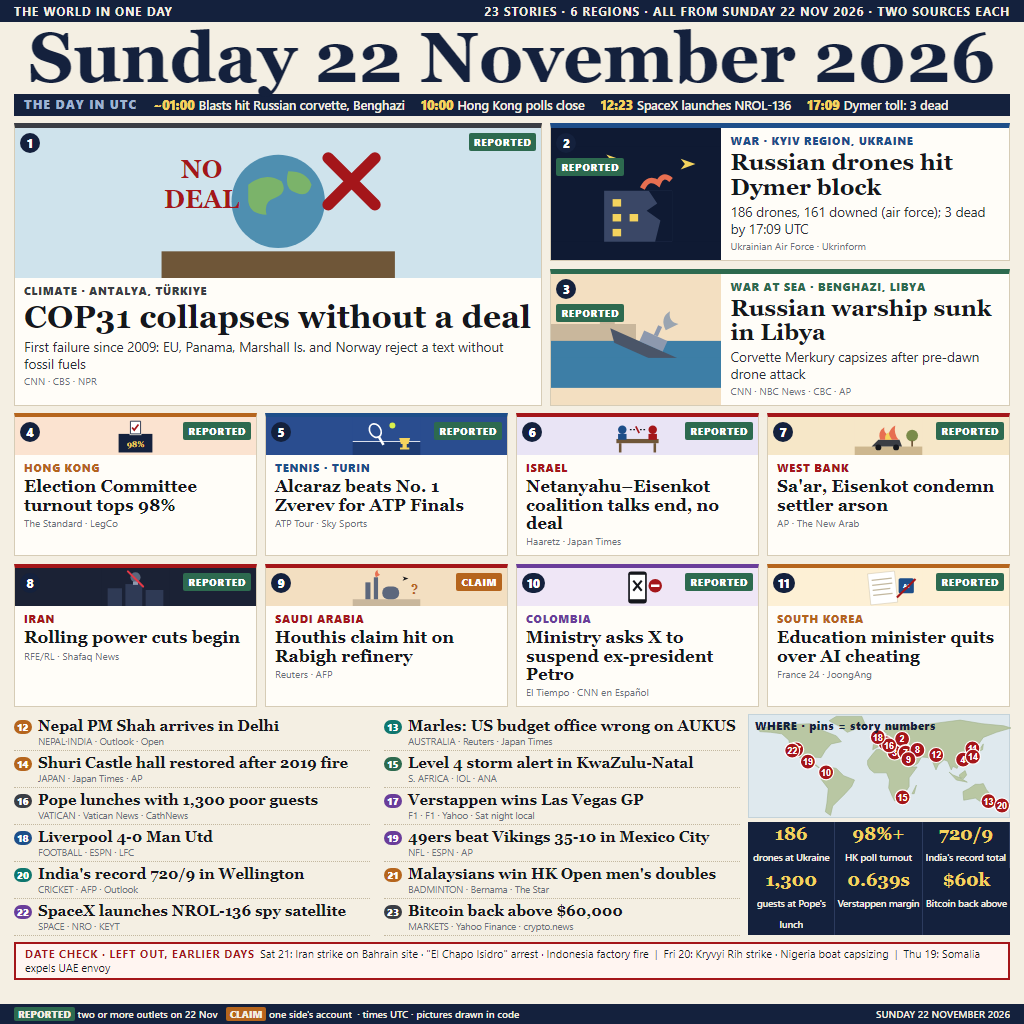
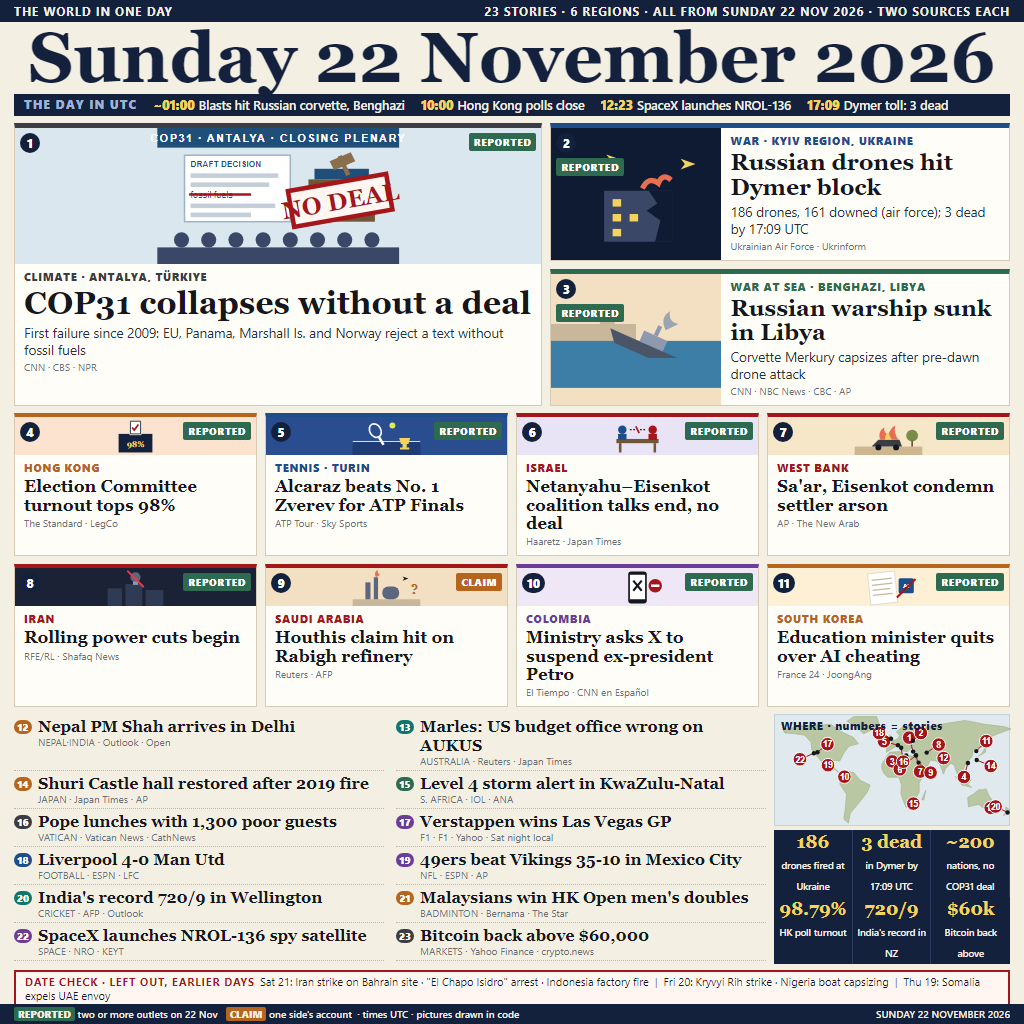
V6.1: plenary scene for COP31, larger briefs, map callouts, sourced indicators

Changed region(s): [[0.0, 0.6875, 1.0, 1.0], [0.0, 0.125, 0.5312, 0.375]]

diff --git a/design/page.html b/design/page.html
@@ -45,12 +45,12 @@
   .ind b { display: block; font-family: Georgia, serif; font-size: 22px; line-height: 24px; color: #f4d35e; }
   .ind span { font-size: 10.5px; font-weight: 600; }
 
-  .notes { display: grid; gap: 0 14px; }
+  .notes { display: grid; gap: 0 12px; }
   .nt { display: flex; gap: 6px; align-items: flex-start; border-bottom: 1px dotted #c3b89f; padding: 3px 0 3px; }
   .nt i { flex: none; font-style: normal; font-size: 10px; font-weight: 800; color: #fff; background: var(--c);
     border-radius: 8px; min-width: 18px; text-align: center; padding: 0 3px; margin-top: 3px; }
-  .nt b { display: block; font-family: Georgia, serif; font-size: 15px; line-height: 18px; }
-  .nt em { display: block; font-style: normal; font-size: 9.5px; line-height: 12px; color: #6b6f78; white-space: nowrap; }
+  .nt b { display: block; font-family: Georgia, serif; font-size: 16px; line-height: 19px; }
+  .nt em { display: block; font-style: normal; font-size: 10px; line-height: 12px; color: #6b6f78; white-space: nowrap; }
   .map { background: #dfe9ee; border: 1px solid #c4d3da; position: relative; }
   .map .cap { position: absolute; left: 6px; top: 4px; font-size: 10.5px; font-weight: 800; letter-spacing: .08em; color: #14213d; }
   .check { margin: 6px 14px 0; border: 2px solid #a4161a; background: #fff5f1; padding: 3px 9px; font-size: 11px; line-height: 14px; }
@@ -93,13 +93,15 @@ const NOTES = [
   { r: 'am', k: 'SPACE', h: 'SpaceX launches NROL-136 spy satellite', s: 'NRO · KEYT', at: [-120.6, 34.7] },
   { r: 'wd', k: 'MARKETS', h: 'Bitcoin back above $60,000', s: 'Yahoo Finance · crypto.news', at: null },
 ];
-const IND = [['186', 'drones at Ukraine'], ['98%+', 'HK poll turnout'], ['720/9', "India's record total"], ['1,300', "guests at Pope's lunch"], ['0.639s', 'Verstappen margin'], ['$60k', 'Bitcoin back above']];
+// Each figure is one already in the stories below, from the same two sources.
+const IND = [['186', 'drones fired at Ukraine'], ['3 dead', 'in Dymer by 17:09 UTC'], ['~200', 'nations, no COP31 deal'], ['98.79%', 'HK poll turnout'], ['720/9', "India's record in NZ"], ['$60k', 'Bitcoin back above']];
 const UTC = [['~01:00', 'Blasts hit Russian corvette, Benghazi'], ['10:00', 'Hong Kong polls close'], ['12:23', 'SpaceX launches NROL-136'], ['17:09', 'Dymer toll: 3 dead']];
 const CHECK = 'Sat 21: Iran strike on Bahrain site · "El Chapo Isidro" arrest · Indonesia factory fire &nbsp;|&nbsp; Fri 20: Kryvyi Rih strike · Nigeria boat capsizing &nbsp;|&nbsp; Thu 19: Somalia expels UAE envoy';
 
 // Small scenes, drawn on a 160x90 canvas.
 const ART = {
-  cop: `<rect width="160" height="90" fill="#cfe3ec"/><circle cx="80" cy="44" r="28" fill="#4f8fb0"/><path d="M62 34q10-8 20-2q4 7-4 10q-7 2-5 10q-10 0-11-8z M86 26q11 0 14 8q-2 8-9 5q-8-2-5-13z" fill="#7bb36a"/><rect x="10" y="74" width="140" height="16" fill="#6f5638"/><path d="M110 18 l28 28 M138 18 l-28 28" stroke="#a4161a" stroke-width="7" stroke-linecap="round"/><text x="34" y="30" font-family="Georgia" font-weight="700" font-size="15" fill="#a4161a" text-anchor="middle">NO</text><text x="34" y="48" font-family="Georgia" font-weight="700" font-size="15" fill="#a4161a" text-anchor="middle">DEAL</text>`,
+  // The closing plenary: the draft on the screen has its fossil-fuel line struck out, and the gavel is stamped NO DEAL.
+  cop: `<rect width="160" height="90" fill="#dbe7ee"/><rect x="0" y="0" width="160" height="13" fill="#1f4e79"/><text x="80" y="9.5" text-anchor="middle" font-family="Arial" font-weight="700" font-size="7.5" fill="#fff" letter-spacing=".8">COP31 · ANTALYA · CLOSING PLENARY</text><rect x="18" y="18" width="70" height="44" fill="#fff" stroke="#9fb3c8"/><text x="22" y="26" font-family="Arial" font-weight="700" font-size="5.5" fill="#1f4e79">DRAFT DECISION</text><g fill="#c3ced8"><rect x="22" y="30" width="58" height="3"/><rect x="22" y="36" width="52" height="3"/><rect x="22" y="50" width="56" height="3"/><rect x="22" y="56" width="40" height="3"/></g><text x="22" y="46" font-family="Arial" font-size="6" fill="#a4161a">fossil fuels</text><line x1="21" y1="44" x2="62" y2="44" stroke="#a4161a" stroke-width="1.6"/><rect x="100" y="34" width="44" height="28" fill="#6f5638"/><rect x="104" y="27" width="36" height="7" fill="#1f4e79"/><path d="M114 22l14-6 3 6-14 6z" fill="#8a6f4e"/><rect x="122" y="18" width="3" height="14" fill="#8a6f4e" transform="rotate(-24 123 25)"/><g fill="#3a4766"><circle cx="16" cy="74" r="5"/><circle cx="34" cy="74" r="5"/><circle cx="52" cy="74" r="5"/><circle cx="70" cy="74" r="5"/><circle cx="88" cy="74" r="5"/><circle cx="106" cy="74" r="5"/><circle cx="124" cy="74" r="5"/><circle cx="142" cy="74" r="5"/></g><rect x="0" y="79" width="160" height="11" fill="#3a4766"/><g transform="rotate(-10 120 48)"><rect x="88" y="36" width="66" height="24" fill="#fff5f1" stroke="#a4161a" stroke-width="3"/><text x="121" y="54" text-anchor="middle" font-family="Georgia" font-weight="700" font-size="16" fill="#a4161a">NO DEAL</text></g>`,
   drones: `<rect width="160" height="90" fill="#0f1a33"/><g fill="#f4d35e"><path d="M18 14l14 5-14 5 4-5z"/><path d="M52 8l14 5-14 5 4-5z"/><path d="M122 12l14 5-14 5 4-5z"/></g><path d="M50 90v-48h64v48z" fill="#3a4766"/><g fill="#f4d35e"><rect x="58" y="50" width="8" height="7"/><rect x="58" y="64" width="8" height="7"/><rect x="58" y="78" width="8" height="7"/><rect x="74" y="64" width="8" height="7"/></g><path d="M114 42l-22 0 8 12-10 7 13 9-5 20h16z" fill="#0f1a33"/><path d="M86 40q6-12 15-5q4-10 12-3" stroke="#e76f51" stroke-width="5" fill="none"/>`,
   ship: `<rect width="160" height="90" fill="#f3dfc1"/><rect y="0" width="160" height="30" fill="#f3dfc1"/><path d="M0 30h46v-8h14v8h20v16H0z" fill="#c9b79c"/><rect y="46" width="160" height="44" fill="#3d7ea6"/><g transform="translate(96 52) rotate(24)"><path d="M-44 0h88l-9 11h-70z" fill="#4a5568"/><rect x="-14" y="-11" width="24" height="11" fill="#8d99ae"/><rect x="-4" y="-21" width="4" height="10" fill="#8d99ae"/></g><rect y="62" width="160" height="28" fill="#3d7ea6"/><path d="M108 36q-6-12 4-18q-2 10 8 12" fill="#9aa5b1"/>`,
   ballot: `<rect width="160" height="90" fill="#fbe3d0"/><rect x="40" y="40" width="80" height="44" fill="#14213d"/><rect x="66" y="38" width="28" height="5" fill="#f4efe3"/><path d="M68 10h24v30h-24z" fill="#fff" stroke="#14213d" stroke-width="2"/><path d="M72 25l5 6 10-13" stroke="#a4161a" stroke-width="4" fill="none"/><text x="80" y="70" text-anchor="middle" font-family="Georgia" font-weight="700" font-size="19" fill="#f4d35e">98%</text>`,
@@ -151,9 +153,15 @@ function notes(cols) {
 function map(w, h, title) {
   const px = (lon) => ((lon + 180) / 360) * w, py = (lat) => ((84 - lat) / 144) * h;
   const land = LAND.map((p) => `<path d="M${p.map(([a, b]) => `${px(a).toFixed(1)} ${py(b).toFixed(1)}`).join('L')}Z" fill="#b9c7a3" stroke="#9fb08a" stroke-width=".6"/>`).join('');
+  // Each story keeps a dot at its true place; where places crowd, its number sits a little away on a callout line.
+  const OFF = { 1: [-4, -14], 2: [8, -10], 3: [-14, 6], 5: [-14, -4], 6: [-16, 14], 7: [4, 16], 8: [12, -8], 9: [12, 10],
+    16: [2, 14], 18: [-12, -8], 4: [-4, 14], 14: [14, 6], 11: [10, -10], 22: [-14, 6], 17: [10, -8], 20: [-12, -6] };
   const pins = all.filter((x) => x.at).map((x) => {
-    const X = Math.min(px(x.at[0]), w - 9), Y = Math.max(py(x.at[1]), 18);
-    return `<g><circle cx="${X.toFixed(1)}" cy="${Y.toFixed(1)}" r="7.5" fill="#a4161a" stroke="#fff" stroke-width="1.2"/><text x="${X.toFixed(1)}" y="${(Y + 3.4).toFixed(1)}" text-anchor="middle" font-family="Arial" font-weight="700" font-size="9" fill="#fff">${x.no}</text></g>`;
+    const X = px(x.at[0]), Y = py(x.at[1]);
+    const [dx, dy] = OFF[x.no] || [0, 0];
+    const LX = Math.min(Math.max(X + dx, 8), w - 8), LY = Math.min(Math.max(Y + dy, 18), h - 8);
+    const line = dx || dy ? `<line x1="${X.toFixed(1)}" y1="${Y.toFixed(1)}" x2="${LX.toFixed(1)}" y2="${LY.toFixed(1)}" stroke="#a4161a" stroke-width="1"/>` : '';
+    return `<g>${line}<circle cx="${X.toFixed(1)}" cy="${Y.toFixed(1)}" r="2.2" fill="#15171c"/><circle cx="${LX.toFixed(1)}" cy="${LY.toFixed(1)}" r="6.8" fill="#a4161a" stroke="#fff" stroke-width="1"/><text x="${LX.toFixed(1)}" y="${(LY + 3.2).toFixed(1)}" text-anchor="middle" font-family="Arial" font-weight="700" font-size="8.5" fill="#fff">${x.no}</text></g>`;
   }).join('');
   return `<div class="map" style="width:${w}px;height:${h}px"><svg width="${w}" height="${h}">${land}${pins}</svg><span class="cap">${title}</span></div>`;
 }
@@ -178,9 +186,9 @@ const LAYOUTS = {
   b() {
     const side = LEADS.slice(1).map((x) => `<div class="card lead side ${x.r}" style="display:flex">${art(x.art, 120).replace('style="height:120px;', 'style="height:auto;width:170px;flex:none;')}<span class="n">${x.no}</span>${badge(x)}<div class="txt"><div class="k">${x.k}</div><h2 style="font-size:23px">${x.h}</h2><p>${x.d}</p><div class="s">${x.s}</div></div></div>`).join('');
     return head
-      + `<div class="row" style="grid-template-columns:1.15fr 1fr">${lead(LEADS[0], 150, 32)}<div style="display:grid;gap:8px">${side}</div></div>`
+      + `<div class="row" style="grid-template-columns:1.15fr 1fr">${lead(LEADS[0], 136, 32)}<div style="display:grid;gap:8px">${side}</div></div>`
       + `<div class="row" style="grid-template-columns:repeat(4,1fr)">${MODS.map((x) => mod(x, 38)).join('')}</div>`
-      + `<div class="row" style="grid-template-columns:1fr 262px;align-items:start">${notes(2)}<div>${map(262, 104, 'WHERE · pins = story numbers')}`
+      + `<div class="row" style="grid-template-columns:1fr 236px;align-items:start">${notes(2)}<div>${map(236, 112, 'WHERE · numbers = stories')}`
       + `<div class="ind" style="margin:4px 0 0;grid-template-columns:1fr 1fr 1fr">${IND.map(([a, b]) => `<div style="padding:2px 1px 3px"><b style="font-size:18px;line-height:20px">${a}</b><span style="font-size:9.5px">${b}</span></div>`).join('')}</div></div></div>`
       + check + foot;
   },
